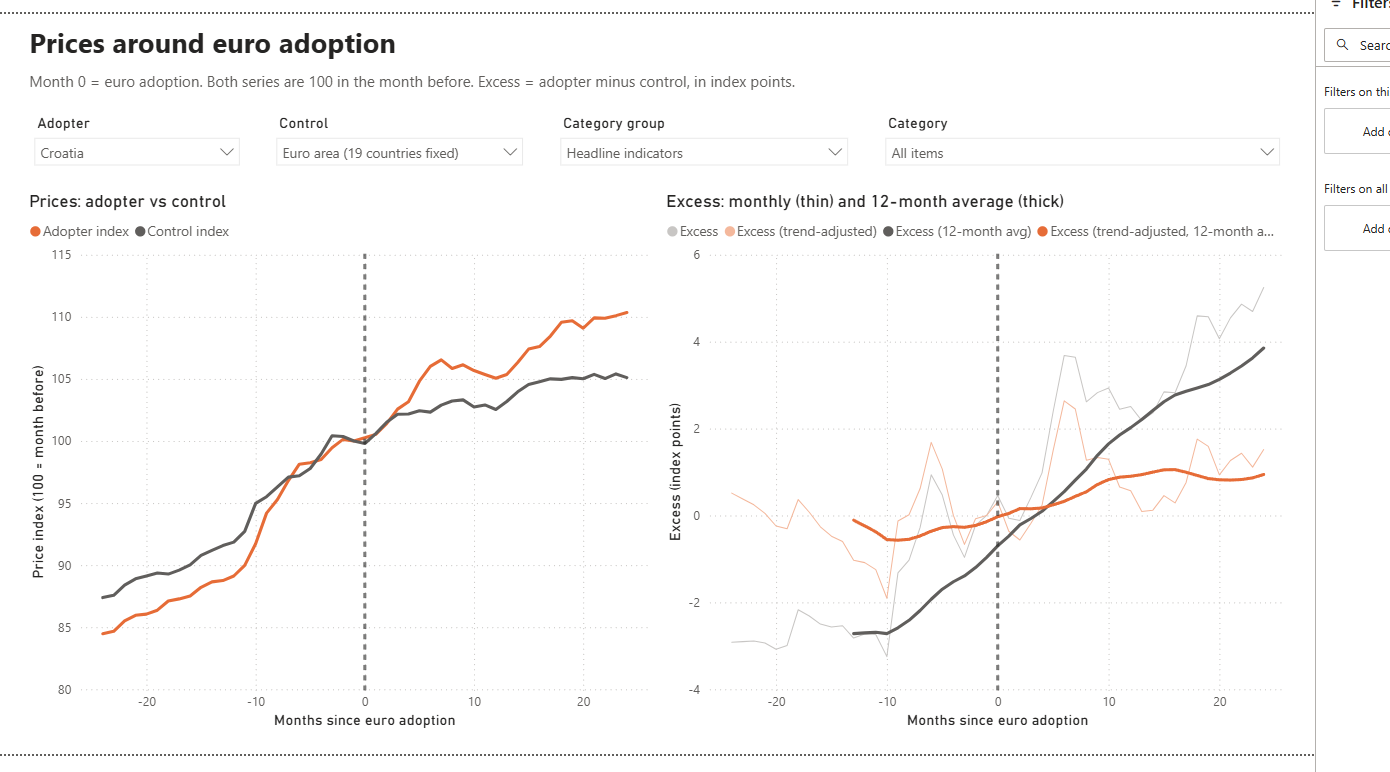
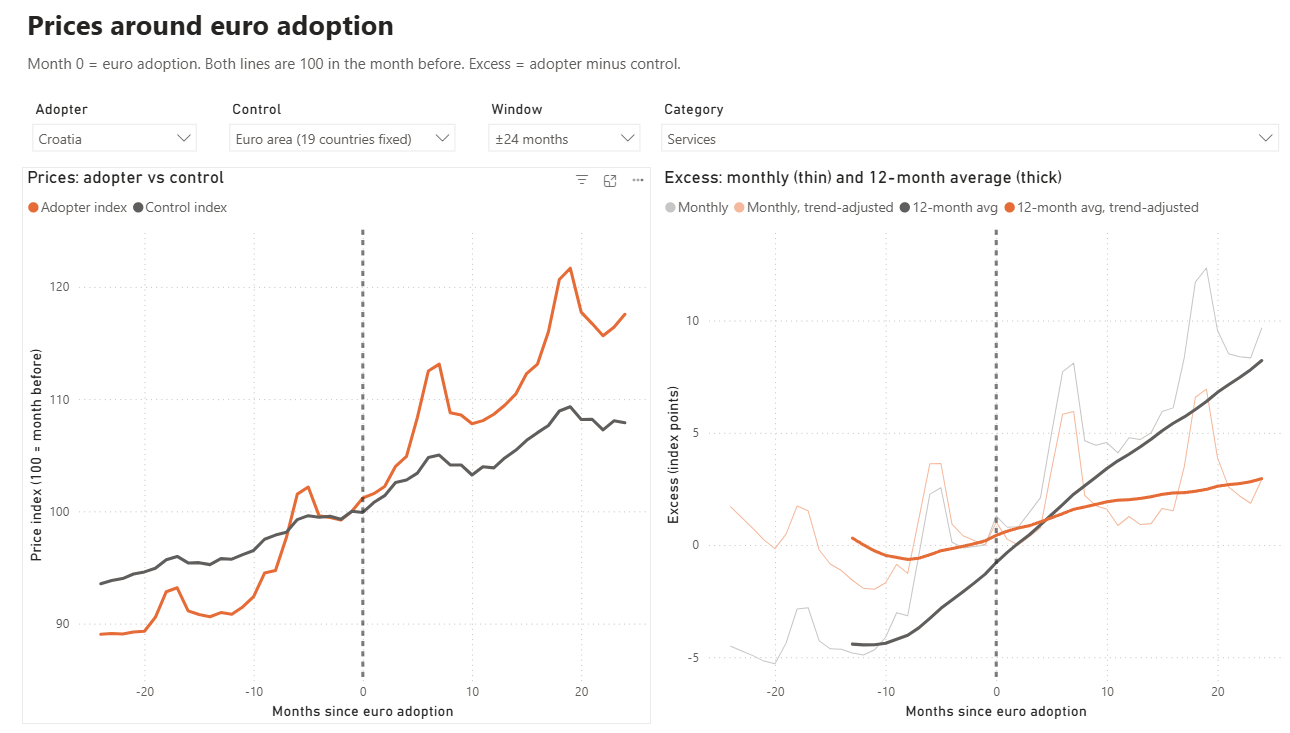
Power BI: start page, smoothed lines within the trend window
- "Start here" page in front: what is compared, what each page shows,
  how to read the filters, where the data comes from
- 12-month averages start only once all 12 months lie inside the trend
  window (from month -13 at +-24); before, they reached back past the
  fitted period and the pre-euro line drifted
- Shorter subtitle on page 1, title boxes without scrollbars
- New README screenshot

diff --git a/docs/METODOLOGIJA.md b/docs/METODOLOGIJA.md
@@ -145,10 +145,11 @@ predvidjela unaprijed.
 ## Power BI izvještaj
 
 [`powerbi/EuroPrices.pbip`](../powerbi/) (format Power BI Project: model je u TMDL-u, a izvještaj u PBIR-u, pa su
-oboje običan tekst koji git uredno prati). Četiri stranice (na engleskom):
+oboje običan tekst koji git uredno prati). Pet stranica (na engleskom):
 
 | Stranica | Pitanje |
 |---|---|
+| **Start here** | Što se uspoređuje, što pokazuje koja stranica, kako čitati filtere |
 | **Croatia vs control** | Što se dogodilo s cijenama oko uvođenja eura, za jednu zemlju u odnosu na jednu kontrolu? |
 | **All adopters** | Ponavlja li se isti obrazac kod svake zemlje? (mali grafovi po zemljama) |
 | **Robustness** | Vrijedi li rezultat i uz drugu kontrolu? (matrica zemlja × kontrola) |

diff --git a/docs/METHODOLOGY.md b/docs/METHODOLOGY.md
@@ -141,10 +141,11 @@ by chance; the analysis therefore leans on services as a whole, which theory poi
 ## Power BI report
 
 [`powerbi/EuroPrices.pbip`](../powerbi/) (Power BI Project format: the model is TMDL and the report is PBIR,
-so both are plain text and diff cleanly in git). Four pages:
+so both are plain text and diff cleanly in git). Five pages:
 
 | Page | Question |
 |---|---|
+| **Start here** | What is compared, what each page shows, how to read the filters |
 | **Croatia vs control** | What happened to prices around adoption, for one adopter against one control? |
 | **All adopters** | Does the same pattern repeat in every adoption? (small multiples) |
 | **Robustness** | Does the result survive a different control? (adopter × control matrix) |
